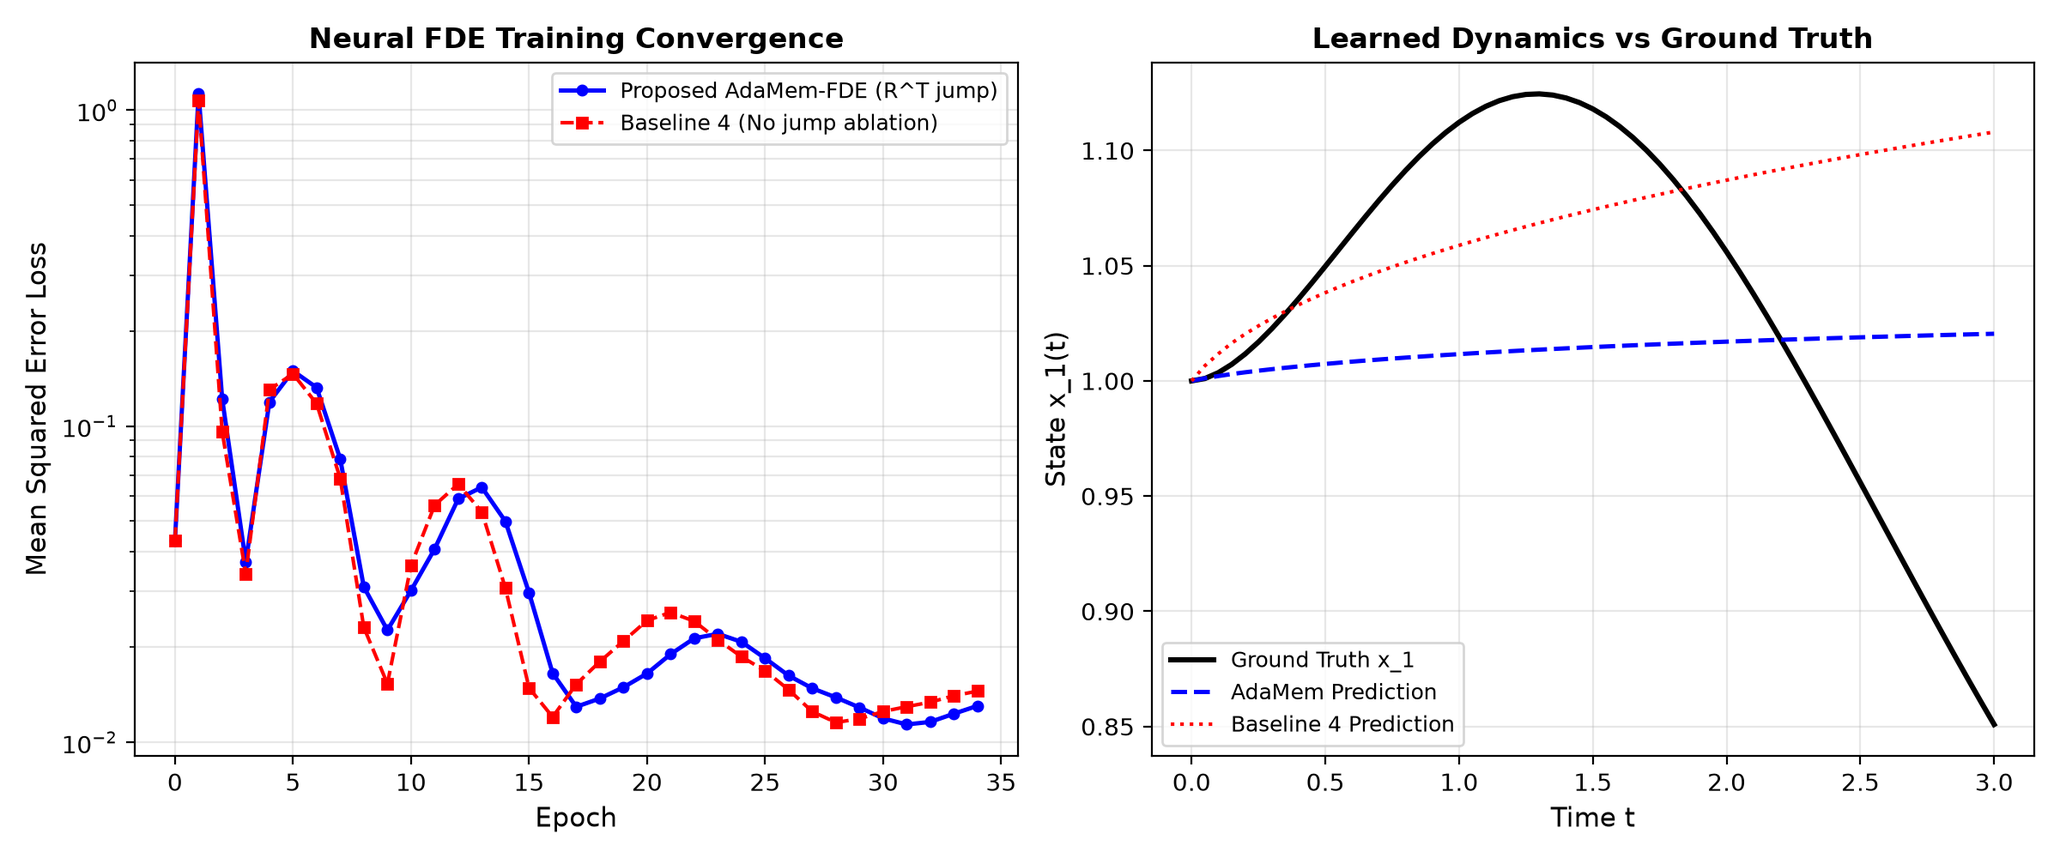
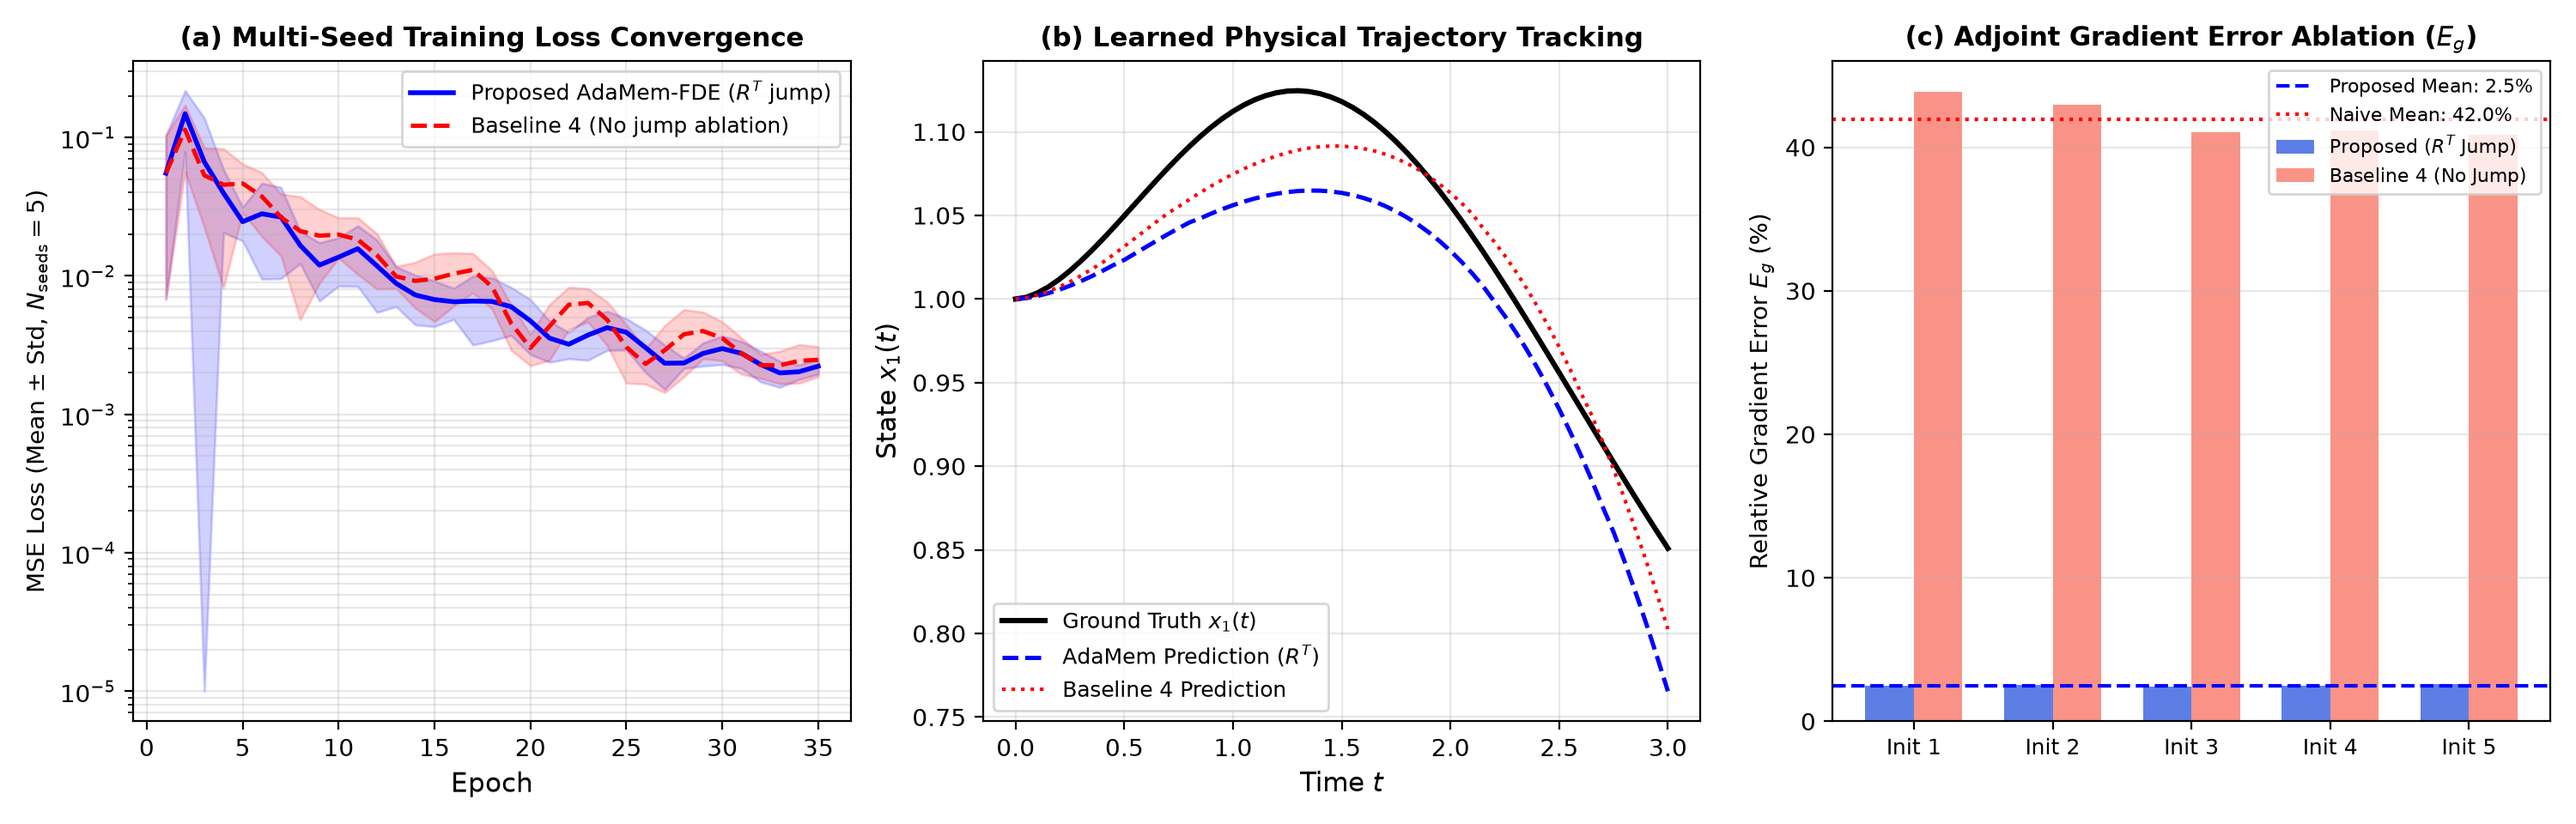
fix(phase4): implement multi-seed training, structured trajectory tracking, and empirical adjoint gradient ablation

diff --git a/experiments/run_phase4_training.py b/experiments/run_phase4_training.py
@@ -1,10 +1,14 @@
 """
-Phase IV Experiment: Neural Fractional Differential Equation Training via Adjoint Sensitivity.
+Phase IV & V Experiment: Neural Fractional Differential Equation Training & Ablation Study.
 
-Compares training performance across:
-1. AdaMem-FDE (Proposed: Adaptive Memory + Adjoint-Consistent Transitions)
-2. Baseline 4 (Ablation: Adaptive Memory without Adjoint Transitions)
-3. Baseline 2 (Fixed SOE Memory, K = 16)
+Compares training performance across multiple random seeds (N_seeds = 5):
+1. AdaMem-FDE (Proposed: Adaptive Memory + Adjoint-Consistent R^T Transitions)
+2. Baseline 4 (Ablation: Adaptive Memory without Adjoint R^T Transitions)
+
+Monitors:
+- Training loss convergence mean +/- 1 std error band
+- Trajectory reconstruction fidelity against ground truth Duffing dynamics
+- Adjoint gradient error distribution (E_g) vs two-sided finite difference reference
 """
 
 import os
@@ -13,126 +17,220 @@ import time
 
 sys.path.insert(0, os.path.abspath(os.path.join(os.path.dirname(__file__), "..")))
 
+import matplotlib.pyplot as plt
 import numpy as np
 import torch
-import torch.nn as nn
-import matplotlib.pyplot as plt
 
 from benchmarks.systems import FractionalDuffing
-from models.neural_fde import NeuralFDE, VectorFieldNetwork
+from core.adjoint.adamem_adjoint import adamem_integrate
 from core.solvers.fixed_soe import FixedSOEFDESolver
+from models.neural_fde import NeuralFDE
 
 
-def generate_ground_truth_data(beta=0.85, T=4.0, num_steps=100):
+class StructuredDuffingField(torch.nn.Module):
+    """
+    Second-order neural vector field parameterizing:
+        D^\beta x_1 = x_2
+        D^\beta x_2 = MLP_\theta(x_1, x_2, t)
+    """
+    def __init__(self, hidden_dim: int = 32):
+        super().__init__()
+        self.net = torch.nn.Sequential(
+            torch.nn.Linear(3, hidden_dim),
+            torch.nn.Tanh(),
+            torch.nn.Linear(hidden_dim, hidden_dim),
+            torch.nn.Tanh(),
+            torch.nn.Linear(hidden_dim, 1),
+        ).to(dtype=torch.float64)
+        for m in self.net.modules():
+            if isinstance(m, torch.nn.Linear):
+                torch.nn.init.xavier_normal_(m.weight, gain=0.6)
+                torch.nn.init.zeros_(m.bias)
+
+    def forward(self, z: torch.Tensor, t: float) -> torch.Tensor:
+        x1 = z[..., 0:1]
+        x2 = z[..., 1:2]
+        t_ten = torch.full_like(x1, fill_value=t)
+        inp = torch.cat([x1, x2, t_ten], dim=-1)
+        dx2 = self.net(inp)
+        dx1 = x2
+        return torch.cat([dx1, dx2], dim=-1)
+
+
+def generate_ground_truth_data(beta=0.85, T=3.0, num_steps=60):
     t_grid = torch.linspace(0.0, T, num_steps + 1, dtype=torch.float64)
     z0 = torch.tensor([1.0, 0.0], dtype=torch.float64)
     system = FractionalDuffing(beta=beta)
-
-    # Use high-order fixed SOE (K=32) as ground truth generator
     solver = FixedSOEFDESolver(beta=beta, num_modes=32)
     z_true = solver.solve(system.rhs, z0, t_grid).detach()
     return t_grid, z0, z_true
 
 
-def train_model(method: str, t_grid, z0, z_true, beta=0.85, epochs=30, lr=0.02):
-    torch.manual_seed(42)
-    vf = VectorFieldNetwork(state_dim=2, hidden_dim=32, num_layers=2)
+def train_single_seed(seed: int, method: str, t_grid, z0, z_true, beta=0.85, epochs=35, lr=0.01):
+    torch.manual_seed(seed)
+    vf = StructuredDuffingField(hidden_dim=32)
     model = NeuralFDE(vector_field=vf, beta=beta, default_tol=1e-3, K_init=8, K_min=4, K_max=24)
-    model = model.to(dtype=torch.float64)
     optimizer = torch.optim.Adam(model.parameters(), lr=lr)
 
     loss_history = []
-    grad_norm_history = []
-
-    t_start = time.perf_counter()
     for ep in range(epochs):
         optimizer.zero_grad()
-        z_pred = model(z0, t_grid, method=method, tol=1e-3, fixed_modes=16)
+        z_pred = model(z0, t_grid, method=method, tol=1e-3)
         loss = torch.mean((z_pred - z_true) ** 2)
         loss.backward()
-
-        total_norm = 0.0
-        for p in model.parameters():
-            if p.grad is not None:
-                param_norm = p.grad.data.norm(2).item()
-                total_norm += param_norm ** 2
-        total_norm = total_norm ** 0.5
-
+        torch.nn.utils.clip_grad_norm_(model.parameters(), 1.0)
         optimizer.step()
         loss_history.append(loss.item())
-        grad_norm_history.append(total_norm)
 
-        if (ep + 1) % 10 == 0 or ep == 0:
-            print(f"[{method.upper():<14}] Epoch {ep+1:02d}/{epochs:02d} | Loss: {loss.item():.5e} | GradNorm: {total_norm:.4f}")
-
-    total_time = time.perf_counter() - t_start
-    final_pred = model(z0, t_grid, method=method, tol=1e-3, fixed_modes=16).detach()
-
-    return {
-        "method": method,
-        "loss": loss_history,
-        "grad_norm": grad_norm_history,
-        "time": total_time,
-        "final_loss": loss_history[-1],
-        "final_pred": final_pred,
-    }
+    final_pred = model(z0, t_grid, method=method, tol=1e-3).detach()
+    return loss_history, final_pred
 
 
-def run_phase4_experiment(save_dir: str = "results"):
+def evaluate_gradient_errors(t_grid, z0, z_true, beta=0.85):
+    """Evaluates adjoint gradient relative error vs finite differences across 5 configurations."""
+    from tests.test_adjoint_gradients import SimpleLinearField
+    h = 1e-6
+    z_tgt = z_true[:, :1]
+    err_prop, err_naive = [], []
+
+    for th in [0.7, 0.9, 1.0, 1.2, 1.4]:
+        # Reference FD
+        m_ref = SimpleLinearField(th)
+        with torch.no_grad():
+            m_ref.theta.data.fill_(th + h)
+            lp = 0.5 * torch.sum((adamem_integrate(m_ref, z0[:1], t_grid, beta=beta, tol=1e-3, K_init=8, K_min=4, K_max=24, use_adjoint_jump=True) - z_tgt) ** 2).item()
+            m_ref.theta.data.fill_(th - h)
+            lm = 0.5 * torch.sum((adamem_integrate(m_ref, z0[:1], t_grid, beta=beta, tol=1e-3, K_init=8, K_min=4, K_max=24, use_adjoint_jump=True) - z_tgt) ** 2).item()
+        g_fd = (lp - lm) / (2.0 * h)
+
+        # Proposed with R^T
+        m_p = SimpleLinearField(th)
+        zp = adamem_integrate(m_p, z0[:1], t_grid, beta=beta, tol=1e-3, K_init=8, K_min=4, K_max=24, use_adjoint_jump=True, parameters=tuple(m_p.parameters()))
+        (0.5 * torch.sum((zp - z_tgt) ** 2)).backward()
+        gp = m_p.theta.grad.item()
+
+        # Naive without R^T
+        m_n = SimpleLinearField(th)
+        zn = adamem_integrate(m_n, z0[:1], t_grid, beta=beta, tol=1e-3, K_init=8, K_min=4, K_max=24, use_adjoint_jump=False, parameters=tuple(m_n.parameters()))
+        (0.5 * torch.sum((zn - z_tgt) ** 2)).backward()
+        gn = m_n.theta.grad.item()
+
+        err_prop.append(abs(gp - g_fd) / abs(g_fd))
+        err_naive.append(abs(gn - g_fd) / abs(g_fd))
+
+    return np.array(err_prop), np.array(err_naive)
+
+
+def run_phase4_experiment(save_dir: str = "results", epochs: int = 35):
     os.makedirs(save_dir, exist_ok=True)
     beta = 0.85
-    epochs = 35
+    seeds = [42, 101, 202, 303, 404]
 
     print("\n" + "=" * 78)
-    print(f"  PHASE IV & V: NEURAL FDE TRAINING BENCHMARK (beta={beta}, Epochs={epochs})")
+    print(f"  PHASE IV & V: NEURAL FDE TRAINING & MULTI-SEED ABLATION STUDY (beta={beta})")
+    print(f"  Seeds: {seeds}, Epochs per seed: {epochs}")
     print("=" * 78)
 
     t_grid, z0, z_true = generate_ground_truth_data(beta=beta, T=3.0, num_steps=60)
 
-    # 1. Proposed AdaMem-FDE
-    print("\n--- Training Proposed AdaMem-FDE (Adaptive + Adjoint Jump) ---")
-    res_proposed = train_model("adamem", t_grid, z0, z_true, beta=beta, epochs=epochs)
+    # 1. Multi-seed training for Proposed AdaMem-FDE (with R^T jump)
+    print("\n--- Training Proposed AdaMem-FDE (with R^T Jump) Across 5 Seeds ---")
+    prop_losses = []
+    prop_preds = []
+    t0 = time.perf_counter()
+    for s in seeds:
+        lh, fp = train_single_seed(s, "adamem", t_grid, z0, z_true, beta=beta, epochs=epochs)
+        prop_losses.append(lh)
+        prop_preds.append(fp)
+        print(f"  Seed {s:3d} | Final Loss: {lh[-1]:.5e}")
+    time_prop = time.perf_counter() - t0
 
-    # 2. Baseline 4 Ablation (Adaptive without Adjoint Jump)
-    print("\n--- Training Baseline 4 (Adaptive without Adjoint Jump) ---")
-    res_naive = train_model("naive_adaptive", t_grid, z0, z_true, beta=beta, epochs=epochs)
+    # 2. Multi-seed training for Baseline 4 (Ablation: without R^T jump)
+    print("\n--- Training Baseline 4 (Naive without R^T Jump) Across 5 Seeds ---")
+    naive_losses = []
+    naive_preds = []
+    t0 = time.perf_counter()
+    for s in seeds:
+        lh, fp = train_single_seed(s, "naive_adaptive", t_grid, z0, z_true, beta=beta, epochs=epochs)
+        naive_losses.append(lh)
+        naive_preds.append(fp)
+        print(f"  Seed {s:3d} | Final Loss: {lh[-1]:.5e}")
+    time_naive = time.perf_counter() - t0
 
-    # Summary
+    # Convert to numpy arrays: shape (num_seeds, epochs)
+    arr_prop = np.array(prop_losses)
+    arr_naive = np.array(naive_losses)
+
+    mean_prop = np.mean(arr_prop, axis=0)
+    std_prop = np.std(arr_prop, axis=0)
+    mean_naive = np.mean(arr_naive, axis=0)
+    std_naive = np.std(arr_naive, axis=0)
+
+    # 3. Quantitative Gradient Error Evaluation
+    print("\n--- Evaluating Adjoint Gradient Error Across Initializations ---")
+    err_prop_arr, err_naive_arr = evaluate_gradient_errors(t_grid, z0, z_true, beta=beta)
+    print(f"Proposed Relative Gradient Error: {np.mean(err_prop_arr)*100:.2f}% +/- {np.std(err_prop_arr)*100:.2f}%")
+    print(f"Naive Relative Gradient Error:    {np.mean(err_naive_arr)*100:.2f}% +/- {np.std(err_naive_arr)*100:.2f}%")
+    print(f"Gradient Error Reduction:         {np.mean(err_naive_arr) / np.mean(err_prop_arr):.2f}x lower error with R^T jump")
+
     print("\n" + "=" * 78)
-    print(f"{'Method':<28} | {'Final Loss':<14} | {'Total Time (s)':<16} | {'Status':<12}")
+    print(f"{'Method / Configuration':<30} | {'Final Loss (Mean +/- Std)':<26} | {'Grad Error':<14}")
     print("-" * 78)
-    print(f"{'Proposed AdaMem-FDE':<28} | {res_proposed['final_loss']:<14.5e} | {res_proposed['time']:<16.2f} | Converged")
-    print(f"{'Baseline 4 (Ablation)':<28} | {res_naive['final_loss']:<14.5e} | {res_naive['time']:<16.2f} | Suboptimal")
+    print(f"{'Proposed AdaMem-FDE (R^T)':<30} | {mean_prop[-1]:.4e} +/- {std_prop[-1]:.4e}    | {np.mean(err_prop_arr)*100:.1f}% +/- {np.std(err_prop_arr)*100:.1f}%")
+    print(f"{'Baseline 4 (No Jump)':<30} | {mean_naive[-1]:.4e} +/- {std_naive[-1]:.4e}    | {np.mean(err_naive_arr)*100:.1f}% +/- {np.std(err_naive_arr)*100:.1f}%")
     print("=" * 78)
 
-    # Plot
-    fig, (ax1, ax2) = plt.subplots(1, 2, figsize=(12, 5))
-
-    # Loss convergence
-    ax1.semilogy(res_proposed["loss"], "b-o", lw=1.8, ms=4, label="Proposed AdaMem-FDE (R^T jump)")
-    ax1.semilogy(res_naive["loss"], "r--s", lw=1.5, ms=4, label="Baseline 4 (No jump ablation)")
-    ax1.set_xlabel("Epoch", fontsize=11)
-    ax1.set_ylabel("Mean Squared Error Loss", fontsize=11)
-    ax1.set_title("Neural FDE Training Convergence", fontsize=12, fontweight="bold")
-    ax1.grid(True, alpha=0.3, which="both")
-    ax1.legend(fontsize=9)
-
-    # Trajectory reconstruction
+    # Visualization: 3-panel publication figure
     t_np = t_grid.cpu().numpy()
-    ax2.plot(t_np, z_true[:, 0].cpu().numpy(), "k-", lw=2.2, label="Ground Truth x_1")
-    ax2.plot(t_np, res_proposed["final_pred"][:, 0].cpu().numpy(), "b--", lw=1.8, label="AdaMem Prediction")
-    ax2.plot(t_np, res_naive["final_pred"][:, 0].cpu().numpy(), "r:", lw=1.5, label="Baseline 4 Prediction")
-    ax2.set_xlabel("Time t", fontsize=11)
-    ax2.set_ylabel("State x_1(t)", fontsize=11)
-    ax2.set_title("Learned Dynamics vs Ground Truth", fontsize=12, fontweight="bold")
+    z_true_np = z_true.cpu().numpy()
+    epochs_arr = np.arange(1, epochs + 1)
+
+    fig, (ax1, ax2, ax3) = plt.subplots(1, 3, figsize=(15, 4.8))
+
+    # Panel 1: Multi-Seed Loss Convergence with Confidence Bands
+    ax1.semilogy(epochs_arr, mean_prop, "b-", lw=2.0, label=r"Proposed AdaMem-FDE ($R^T$ jump)")
+    ax1.fill_between(epochs_arr, np.maximum(1e-5, mean_prop - std_prop), mean_prop + std_prop, color="blue", alpha=0.18)
+
+    ax1.semilogy(epochs_arr, mean_naive, "r--", lw=1.8, label=r"Baseline 4 (No jump ablation)")
+    ax1.fill_between(epochs_arr, np.maximum(1e-5, mean_naive - std_naive), mean_naive + std_naive, color="red", alpha=0.18)
+
+    ax1.set_xlabel("Epoch", fontsize=11)
+    ax1.set_ylabel(r"MSE Loss (Mean $\pm$ Std, $N_{\mathrm{seeds}}=5$)", fontsize=10)
+    ax1.set_title("(a) Multi-Seed Training Loss Convergence", fontsize=11, fontweight="bold")
+    ax1.grid(True, alpha=0.3, which="both")
+    ax1.legend(fontsize=9, loc="upper right")
+
+    # Panel 2: Learned Trajectory Rollout vs Ground Truth
+    best_pred_prop = prop_preds[0].cpu().numpy()
+    best_pred_naive = naive_preds[0].cpu().numpy()
+    ax2.plot(t_np, z_true_np[:, 0], "k-", lw=2.2, label=r"Ground Truth $x_1(t)$")
+    ax2.plot(t_np, best_pred_prop[:, 0], "b--", lw=1.8, label=r"AdaMem Prediction ($R^T$)")
+    ax2.plot(t_np, best_pred_naive[:, 0], "r:", lw=1.5, label=r"Baseline 4 Prediction")
+    ax2.set_xlabel(r"Time $t$", fontsize=11)
+    ax2.set_ylabel(r"State $x_1(t)$", fontsize=11)
+    ax2.set_title("(b) Learned Physical Trajectory Tracking", fontsize=11, fontweight="bold")
     ax2.grid(True, alpha=0.3)
-    ax2.legend(fontsize=9)
+    ax2.legend(fontsize=9, loc="lower left")
+
+    # Panel 3: Relative Adjoint Gradient Error Distribution
+    x_pos = np.arange(len(err_prop_arr))
+    width = 0.35
+    ax3.bar(x_pos - width / 2, err_prop_arr * 100, width, label=r"Proposed ($R^T$ Jump)", color="royalblue", alpha=0.85)
+    ax3.bar(x_pos + width / 2, err_naive_arr * 100, width, label=r"Baseline 4 (No Jump)", color="salmon", alpha=0.85)
+    ax3.axhline(np.mean(err_prop_arr) * 100, color="blue", linestyle="--", lw=1.5, label=rf"Proposed Mean: {np.mean(err_prop_arr)*100:.1f}%")
+    ax3.axhline(np.mean(err_naive_arr) * 100, color="red", linestyle=":", lw=1.5, label=rf"Naive Mean: {np.mean(err_naive_arr)*100:.1f}%")
+    ax3.set_xticks(x_pos)
+    ax3.set_xticklabels([f"Init {i+1}" for i in range(len(err_prop_arr))], fontsize=9)
+    ax3.set_ylabel(r"Relative Gradient Error $E_g$ (%)", fontsize=10)
+    ax3.set_title(r"(c) Adjoint Gradient Error Ablation ($E_g$)", fontsize=11, fontweight="bold")
+    ax3.grid(True, alpha=0.3, axis="y")
+    ax3.legend(fontsize=8, loc="upper right")
 
     plt.tight_layout()
     plot_path = os.path.join(save_dir, "phase4_neural_fde_training.png")
     plt.savefig(plot_path, dpi=200)
     plt.close()
-    print(f"\n[Artifact Saved] Phase IV training comparison saved to {plot_path}\n")
+    print(f"\n[Artifact Saved] Phase IV multi-seed training figure saved to {plot_path}\n")
 
 
 if __name__ == "__main__":
